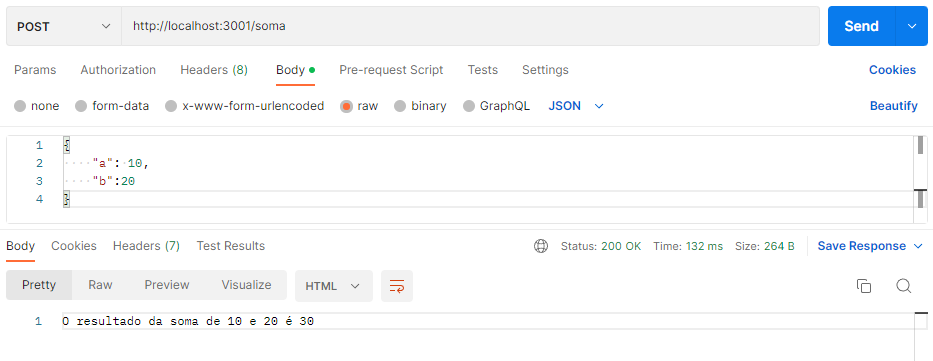
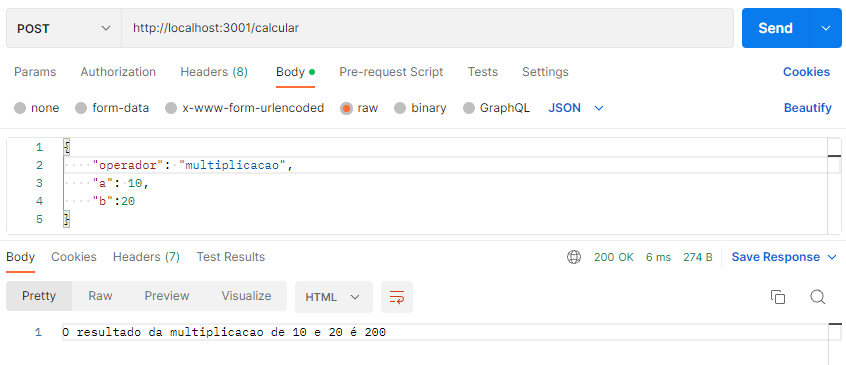
Adicionando outras operacoes

diff --git a/semestre2/ambientes/entregavel3/app.js b/semestre2/ambientes/entregavel3/app.js
@@ -4,19 +4,24 @@ var app = express();
 var bodyParser = require('body-parser');
 app.use(bodyParser.json());
 
-function soma(a, b) {
-    return a + b;
-}
-
 app.get('/', function(req, res) {
   res.send('Oi, mundo :-)');
 });
 
-app.post('/soma', function (req, res) {
+app.post('/calcular', function (req, res) {
     var body = req.body;
-    var resultado = soma(body.a, body.b);
+    var operador = body.operador;
 
-    res.send(`O resultado da soma de ${body.a} e ${body.b} é ${resultado}`);
+    metodos = {
+      soma: (valor1, valor2) => soma(valor1, valor2),
+      subtracao: (valor1, valor2) => subtracao(valor1, valor2),
+      multiplicacao: (valor1, valor2) => multiplicacao(valor1, valor2),
+      divisao: (valor1, valor2) => divisao(valor1, valor2),
+    }
+
+    var resultado = metodos[operador](parseFloat(body.a), parseFloat(body.b));
+
+    res.send(`O resultado da ${operador} de ${body.a} e ${body.b} é ${resultado}`);
 });
 
 var port = 3001;
@@ -25,3 +30,17 @@ var port = 3001;
 app.listen(port, function() {
   console.log(`App de Exemplo escutando na porta http://localhost:${port}/`);
 });
+
+
+function soma(a, b) {
+  return a + b;
+}
+function subtracao(a, b) {
+  return a - b;
+}
+function multiplicacao(a, b) {
+  return a * b;
+}
+function divisao(a, b) {
+  return a / b;
+}

diff --git a/semestre2/ambientes/entregavel3/readme.md b/semestre2/ambientes/entregavel3/readme.md
@@ -11,20 +11,20 @@ O entregável pede que seja construído um servidor express com dois endpoints, 
 - Baixar os códigos contidos nesse repositórios para a sua máquina
 - Executar no terminal o comando
 
-```Text Bash
+```Bash
 npm install
 ```
 
 - Após instalar todos os pacotes, coloque o servidor para rodar com o comando
 
-```Text Bash
+```Bash
 node app.js
 ```
 
 
 ### Primeira Requisição
 
-- Abrir o Postman
+- [Instalar](https://www.postman.com/downloads/ "Link Download Postman") e abrir o postman
 - Adicionar um request
 - Colocar o método GET
 - Adicionar na URL do request <http://localhost:3001>
@@ -38,17 +38,19 @@ node app.js
 - Abrir o Postman
 - Adicionar um request
 - Colocar o método POST
-- Adicionar na URL do request <http://localhost:3001/soma>
+- Adicionar na URL do request <http://localhost:3001/calcular>
 - Clicar em Body
 - Selecionar a opção "raw"
 - Colocar o json no body
 
-```Text JSON
+```JSON
 {
+    "operador": "soma",
     "a": 10,
     "b":20
 }
 ```
-
-- Clicar em enviar
+- De operador estão disponíneis: "soma", "subtracao", "multiplicacao", "divisao"
+- Altere o operador no JSON que a operação também mudará
+- Clique em enviar
 ![Segunda Requisicao](./CapturaPost.png "Segunda Requisicao")
